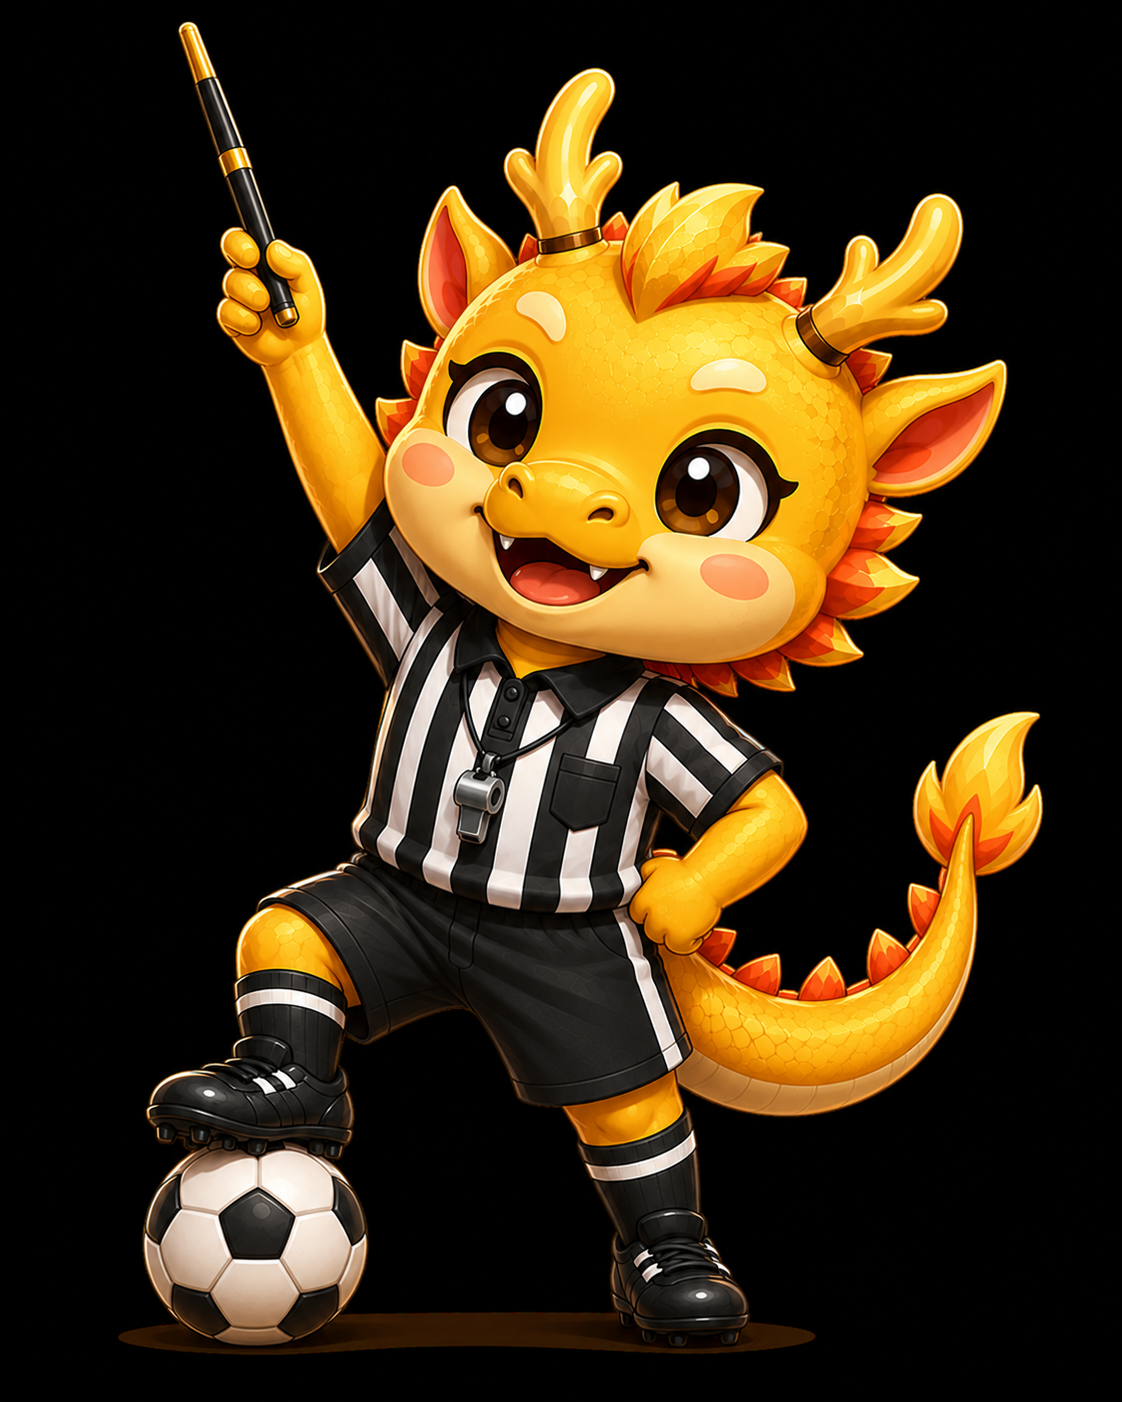
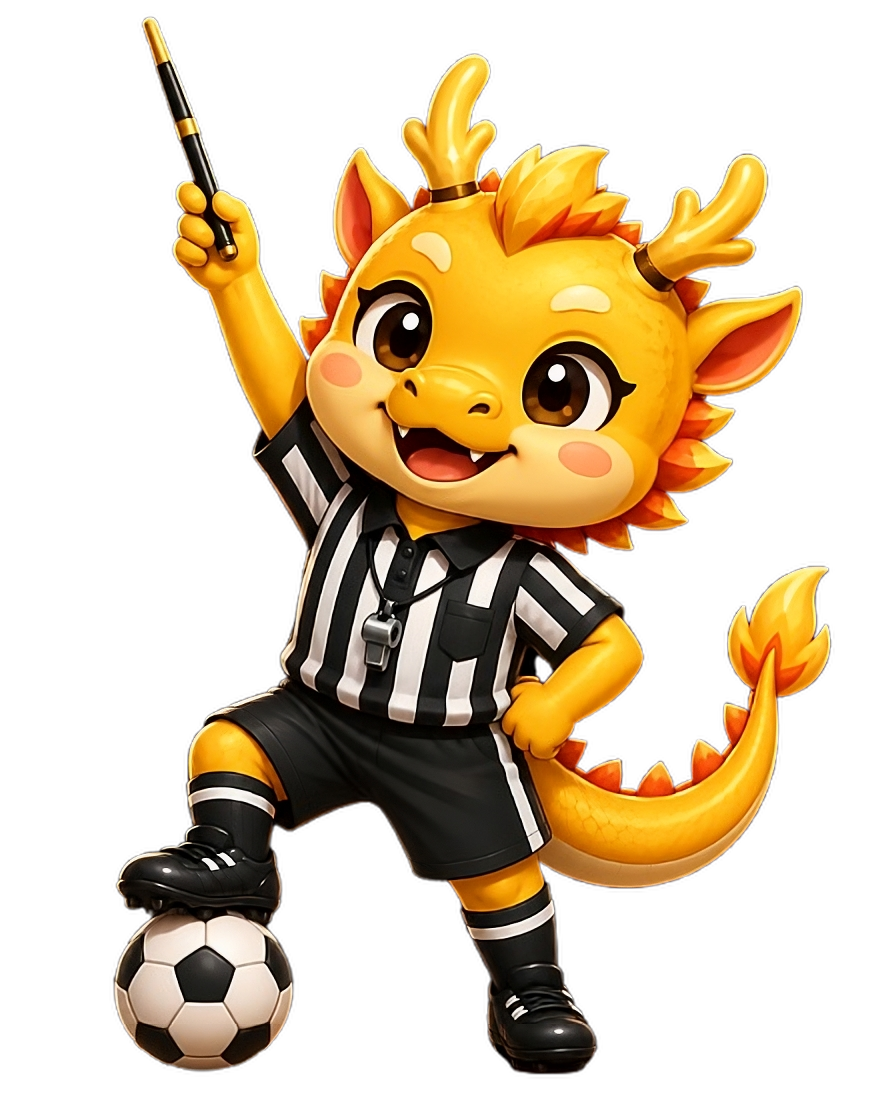
1

diff --git a/tools/video-pipeline/shortvideo/config.py b/tools/video-pipeline/shortvideo/config.py
@@ -124,21 +124,22 @@ class RenderConfig:
     def layout(self) -> dict[str, dict[str, int]]:
         """Compute pixel rectangles for each region of the 9:16 layout.
 
-        Rows (top -> bottom): two image columns (titles overlaid on their top
-        edge) | subtitle band | dragon band.
+        Rows (top -> bottom): title strip | two image columns | subtitle band |
+        dragon band. Titles sit in their own strip above the images (no overlap).
         """
         w, h, m = self.width, self.height, self.safe_margin
 
-        # Images start near the top; the title sits on top of each image.
+        # Title strip lives at the very top in its own row.
+        title_y = m
+        title_h = max(90, int(h * 0.06))
+
+        # Image columns start below the title strip so they never overlap it.
         # Image columns are locked to a 4:3 ratio (width : height = 4 : 3).
-        img_y = m
+        img_y = title_y + title_h
         col_w = (w - 3 * m) // 2
         col_h = int(col_w * 3 / 4)
         left_x = m
         right_x = m * 2 + col_w
-
-        # Title strip overlaid on the upper part of each image column.
-        title_h = max(90, int(h * 0.06))
 
         sub_y = img_y + col_h + m
         sub_h = int(h * 0.18)
@@ -150,8 +151,8 @@ class RenderConfig:
 
         return {
             "canvas": {"x": 0, "y": 0, "w": w, "h": h},
-            "titleLeft": {"x": left_x, "y": img_y, "w": col_w, "h": title_h},
-            "titleRight": {"x": right_x, "y": img_y, "w": col_w, "h": title_h},
+            "titleLeft": {"x": left_x, "y": title_y, "w": col_w, "h": title_h},
+            "titleRight": {"x": right_x, "y": title_y, "w": col_w, "h": title_h},
             "imageLeft": {"x": left_x, "y": img_y, "w": col_w, "h": col_h},
             "imageRight": {"x": right_x, "y": img_y, "w": col_w, "h": col_h},
             "subtitle": {"x": m, "y": sub_y, "w": w - 2 * m, "h": sub_h},

diff --git a/tools/video-pipeline/shortvideo/subtitle.py b/tools/video-pipeline/shortvideo/subtitle.py
@@ -53,7 +53,7 @@ ScaledBorderAndShadow: yes
 
 [V4+ Styles]
 Format: Name, Fontname, Fontsize, PrimaryColour, SecondaryColour, OutlineColour, BackColour, Bold, Italic, Underline, StrikeOut, ScaleX, ScaleY, Spacing, Angle, BorderStyle, Outline, Shadow, Alignment, MarginL, MarginR, MarginV, Encoding
-Style: Title,{font},{config.title_font_size},&H00FFFFFF,&H000000FF,&H00202020,&H96000000,-1,0,0,0,100,100,0,0,1,3,1,5,10,10,10,1
+Style: Title,{font},{config.title_font_size},&H000000FF,&H000000FF,&H00202020,&H96000000,-1,0,0,0,100,100,0,0,1,3,1,5,10,10,10,1
 Style: Sub,{font},{config.subtitle_font_size},&H00FFFFFF,&H000000FF,&H00202020,&H96000000,-1,0,0,0,100,100,0,0,1,4,2,5,10,10,10,1
 
 [Events]